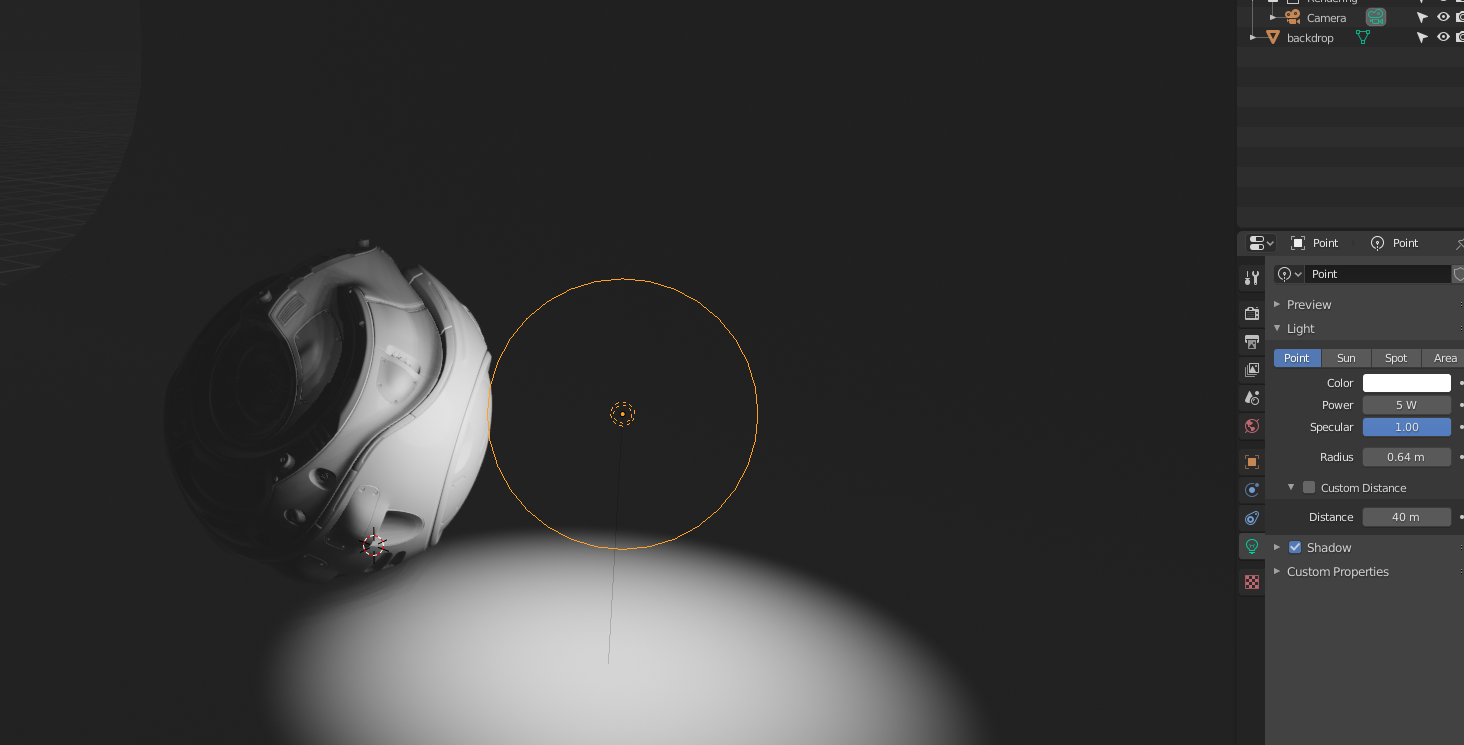
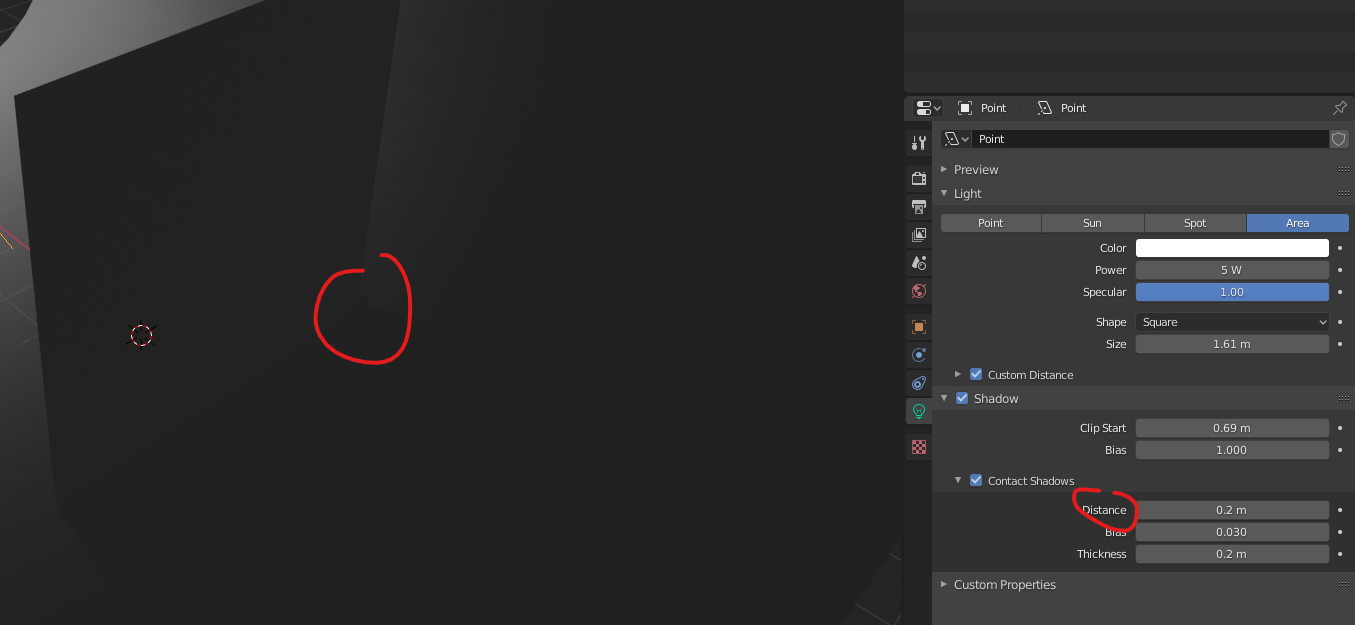
GitBook: [#161] No subject

diff --git a/blender-1/blender/lighting/lighting-a-bedroom-with-cycles.md b/blender-1/blender/lighting/lighting-a-bedroom-with-cycles.md
@@ -28,7 +28,7 @@ Since the sun lamp (and a bit of the sky texture) is the only light source, it d
 
 After choosing one of those option, you could brighten up the room using the world tab > ambient occlusion and change distance to something smaller than the size of the room like 10 feet. You can change the factor but that leaves everything a bit grey so instead create an area light outside the window. This adds extra light coming in though outside.
 
-![](<../../../.gitbook/assets/image (146) (1).png>)
+![](<../../../.gitbook/assets/image (146) (1) (1).png>)
 
 Angle the area lamp down so it mimics sun light. Set strength to 250w with a color like the sky (pale blue).
 
@@ -44,7 +44,7 @@ Add the first one with size .13 feet. Add a warm color. With power of 7w.
 
 For the second one, hold down alt + D to create a "linked duplicate" which means whatever values you change for the first lamp point will also affect the second one.
 
-![](<../../../.gitbook/assets/image (145) (1) (1).png>)
+![](<../../../.gitbook/assets/image (145) (1) (1) (1).png>)
 
 Now with more than 1 type of light in the scene, it rally matters on the differences of the types of lights. The sun is not bright enough compared to the lamps. If you change the sun angle value in the settings to 5 or 10 degrees it would make it believable.
 
@@ -60,7 +60,7 @@ Kelvin values can be found online.
 
 The point lamps can have kelvin values too: 2700. (Following the saturation change, blackbody choice as well like the sun has.)
 
-![](<../../../.gitbook/assets/image (143) (1).png>)
+![](<../../../.gitbook/assets/image (143) (1) (1).png>)
 
 Under shader editor > world with strength set to 200.\
 This was through trial and error and comparing to real-world values.
@@ -115,7 +115,7 @@ Disconnect the background node from the world output so the render is completely
 
 Now to add a sunlight to the strength of what the moon should be so we can set the HDRI to the correct strength. Copy the sun lamp in the scene with Shift + D and rename it as moon. Change the strength of the moon light in its settings to .001. The scene should still be in darkness. Turn up the exposure to its max (10) to see how the light affects the scene.
 
-![](<../../../.gitbook/assets/image (146).png>)
+![](<../../../.gitbook/assets/image (146) (1).png>)
 
 Then hide the moon, and plug the background node back into the world output. Change the background node strength to .005 (had to play with this to find this as the best value).
 
@@ -127,7 +127,7 @@ Since there's a noticeably big shaded error above the bed, we may want to fix th
 
 Hide all lamps in the room (lamps and bedroom one) and add another point light copy in the hallway. Change power to 15 and temperature to 3500 so it's more of a LED type light.
 
-![](<../../../.gitbook/assets/image (145) (1).png>)
+![](<../../../.gitbook/assets/image (145) (1) (1).png>)
 
 Turn the other 3 light sources on and render it out.
 

diff --git a/blender-1/blender/lighting/using-contact-shadows.md b/blender-1/blender/lighting/using-contact-shadows.md
@@ -1,0 +1,20 @@
+# Using Contact Shadows
+
+Using rasterize shadows, you'll see that light still seeps through at the bottom of a plane eve through it's going through the floor.
+
+![](<../../../.gitbook/assets/image (143).png>)
+
+Toggling **contact shadows** on in the light setting fixes this.
+
+![](<../../../.gitbook/assets/image (146).png>)
+
+The distance value is determined by checking it fixes the crack of light but doesn't add too much extra in the corner. This can be fixed so it can just blend in with the shadow. I set it to around 0.8 here. Bias works the same way as the shadow bias, but for contact shadows specifically. The default value (.03) works generally well for use.
+
+![](<../../../.gitbook/assets/image (145).png>)
+
+Thickness value will help us reduce the protrusion of the shadow from the wall. Setting it too high will show a streak of shadow up the vertical side of the wall.
+
+![](<../../../.gitbook/assets/image (138).png>)
+
+If you ever come across an object not casting the right shadow or there's light leaking, you may need to make your geometry a bit thicker. In eevee, objects should have some thickness to avoid light leaks.
+

diff --git a/blender-1/blender/lighting/volumetric-lighting.md b/blender-1/blender/lighting/volumetric-lighting.md
@@ -23,7 +23,7 @@ This will create a cool effect of a projector.\
 
 You can change the brightness by changing the amount of light bouncing by increasing the Light Paths > Max Bounces > Volume value. This determines how much light is bounces around in the room. Don't put the value higher than 2 or 3 for a brighter effect. Otherwise, there'd be too much noise in the render.
 
-![](<../../../.gitbook/assets/image (143) (1) (1).png>)
+![](<../../../.gitbook/assets/image (143) (1) (1) (1).png>)
 
 \----------------------------
 
@@ -32,7 +32,7 @@ Using a cube, cover most of the room and after setting a material, disconnect th
 ![](<../../../.gitbook/assets/image (139) (1).png>)
 
 After, go to volume > volume scatter below it. Set density to 0.1.\
-![](<../../../.gitbook/assets/image (145) (1) (1) (1).png>)
+![](<../../../.gitbook/assets/image (145) (1) (1) (1) (1).png>)
 
 Since we don't want to see the mesh used as a volume scatter in our viewport, set the object settings to viewport display > display as "wire".\
 ![](<../../../.gitbook/assets/image (142) (1).png>)

diff --git a/blender-1/blender/lighting/using-cube-mapped-shadows-in-eevee.md b/blender-1/blender/lighting/using-cube-mapped-shadows-in-eevee.md
@@ -9,7 +9,7 @@ In cycles, good to have multiple lights with realistic values and set the exposu
 In eevee, with a realistic light point and the world strength set to .01. The light doesn't go very far.
 
 \
-![](<../../../.gitbook/assets/image (145).png>)\
+![](<../../../.gitbook/assets/image (145) (1).png>)\
 
 
 Set the point light to custom distance to fix this. Keep the distance small so less to calculate.\
@@ -23,7 +23,7 @@ To disable "soft shadows" go under render tab > shadows > soft shadows.
 
 Soft shadows can be defined by cube size values. It's created by 360 degree image (or a cube map) from this point in space.
 
-![](<../../../.gitbook/assets/image (143).png>)
+![](<../../../.gitbook/assets/image (143) (1).png>)
 
 Under light settings, shadow > clip start is the distance in which objects will start casting shadows.
 

diff --git a/blender-1/blender/lighting/texturing-lights-with-ies-data.md b/blender-1/blender/lighting/texturing-lights-with-ies-data.md
@@ -9,7 +9,7 @@ IES - Illuminating Engineering Society
 Under a light point setting, Nodes > choose nodes.\
 In the shader view, create add node "IES Texture". Upload an external .ies file and adjust the strength to get some cool effects on the objects.
 
-![](<../../../.gitbook/assets/image (138).png>)
+![](<../../../.gitbook/assets/image (138) (1).png>)
 
 This won't only simulate the light bulb, but the fixture that it's in. The light is a bit normalized, so it's best to grab a new point (or duplicate this one and remove the IES texture node and adjust the strength value until you like how it looks.) Then adjust the IES one to match it until you don't need the reference anymore.
 

diff --git a/blender-1/blender/lighting/hdri-world-backgrounds.md b/blender-1/blender/lighting/hdri-world-backgrounds.md
@@ -12,8 +12,8 @@ There needs to be some modifying if yo are introducing other light sources to a 
 
 If you want the light source appearing in a certain way, you can change the rotation by changing the vector value t mapping and changing the rotation value for Z.
 
-![](<../../../.gitbook/assets/image (138) (1).png>)
+![](<../../../.gitbook/assets/image (138) (1) (1).png>)
 
 You can use built-in HDRIs in Blender to test the scene but they're not great for rendering. You can add your own here by clicking the gear icon. Under Lights > HDRIs click install.
 
-![](<../../../.gitbook/assets/image (143) (1) (1) (1).png>)
+![](<../../../.gitbook/assets/image (143) (1) (1) (1) (1).png>)

diff --git a/blender-1/blender/lighting/scopes-and-color-management.md b/blender-1/blender/lighting/scopes-and-color-management.md
@@ -18,5 +18,5 @@ You can see the render result after closing the render image window by going to 
 
 You can choose the "use curves" option to brighten the brighter areas and darken the darker areas with a s-curve chape on the graph. As a general rule ,try to keep most of the values on the Luma graph more in the middle. Don't want anything completely white or black.
 
-![](<../../../.gitbook/assets/image (143) (1) (1) (1) (1).png>)
+![](<../../../.gitbook/assets/image (143) (1) (1) (1) (1) (1).png>)
 

diff --git a/SUMMARY.md b/SUMMARY.md
@@ -73,6 +73,7 @@
     * [Lighting a Bedroom with Cycles](blender-1/blender/lighting/lighting-a-bedroom-with-cycles.md)
     * [Shadow Terminator in Cycles](blender-1/blender/lighting/shadow-terminator-in-cycles.md)
     * [Using Cube Mapped Shadows In EEVEE](blender-1/blender/lighting/using-cube-mapped-shadows-in-eevee.md)
+    * [Using Contact Shadows](blender-1/blender/lighting/using-contact-shadows.md)
 
 ## Inkscape <a href="#inkscape-1" id="inkscape-1"></a>
 

diff --git a/blender-1/blender/vector-displacement.md b/blender-1/blender/vector-displacement.md
@@ -15,4 +15,4 @@ Within the shader editor, have the material output selected and change the surfa
 
 Then set the gradient texture and color ramp to the other nodes like this:
 
-![](<../../.gitbook/assets/image (138) (1) (1) (1).png>)
+![](<../../.gitbook/assets/image (138) (1) (1) (1) (1).png>)
